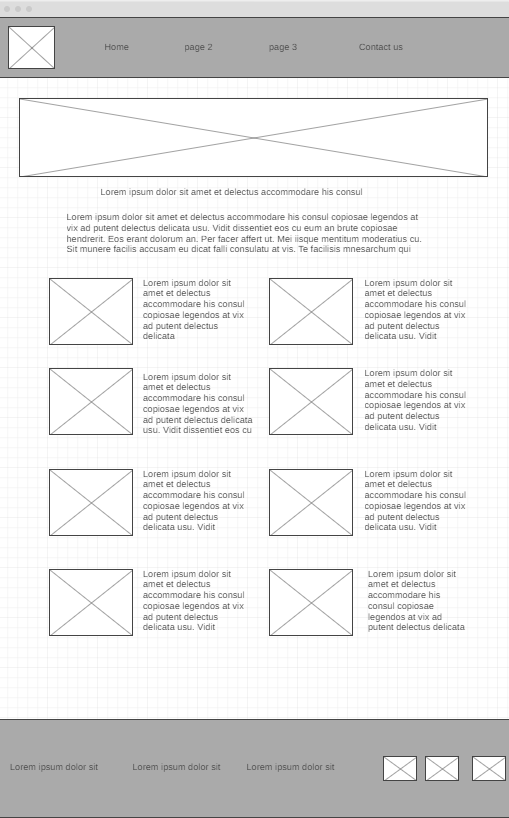
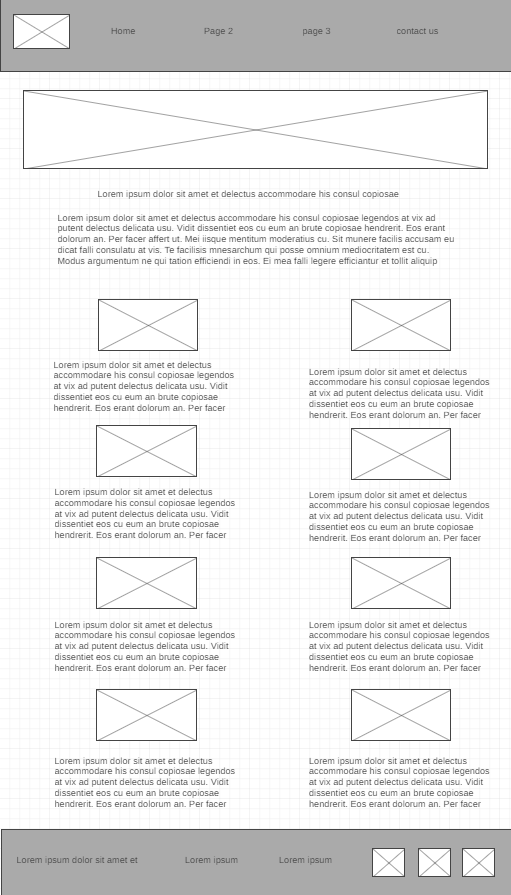
changes

diff --git a/personalsite.html b/personalsite.html
@@ -24,7 +24,7 @@
             <img src="images/mainlogo.jpg" width="100%" height="400"  alt="People enjoying white water rafting">
         
         
-            <h1 class="home-title">Global Warming and Climate Change</h1>
+            <h1>Global Warming and Climate Change</h1>
             <p> You might be thinking, what is global warning and climate change?
                 According to USGS (science for a changing world) “Global warming” refers to the rise in global temperatures due mainly to the increasing concentrations of greenhouse gases in the atmosphere. “Climate change” refers to the increasing changes in the measures of climate over a long period of time – including precipitation, temperature, and wind patterns.
                 All this changes in our planet are the consequences in our way of life. Since the Industrial Revolution, air temperatures have been increasing, however natural variables play a part as well.
@@ -32,40 +32,58 @@
                 Here are some ideas: 
                  </p>
     
-
+            <div class="energyhome">
+                
             <img src="images/saveenergyhome.jpg" alt="Save energy at home">
+            
             <p>Save energy at home.
                 Much of our electricity and heat are powered by coal, oil, and gas. Use less energy by lowering your heating and cooling, switching to LED light bulbs and energy-efficient electric appliances, washing your laundry with cold water, or hanging clothes to dry instead of using a dryer.
-                </p>
+            </p>
+            
+                </div>
+                <div class="walkbike">
             <img src="images/walkbike.jpg" alt="bike">
+        
             <p> 	Walk, bike, or take public transportation.
                 	The world’s roadways are clogged with vehicles, most of them burning diesel or gasoline. Walking or riding a bike instead of driving will reduce greenhouse gas emissions — and help your health and fitness. For longer distances, consider taking a train or bus. And carpool whenever possible.
                 </p>
+                </div>
+                <div class="vegetables">
             <img src="images/vegetables.jpg" alt="vegetables">
             <p>	Eat more vegetables.
                 	Eating more vegetables, fruits, whole grains, legumes, nuts, and seeds, can significantly lower your environmental impact. Producing plant-based foods generally results in fewer greenhouse gas emissions and requires less energy, land, and water.
                  </p>
+                 </div>
+                 <div class="travel">
             <img src="images/travel.jpg" alt="travel">
             <p>	Consider your travel.
                 	Airplanes burn large amounts of fossil fuels, producing significant greenhouse gas emissions. That means taking fewer flights is one of the fastest ways to reduce your environmental impact. When you can, meet virtually, take a train, or skip that long-distance trip altogether.
                  </p>
+                 </div>
+                 <div class="food">
             <img src="images/throwawayfood.jpg" alt="food">
             <p> 	Throw away less food.
                 	When you throw food away, you're also wasting the resources and energy that were used to grow, produce, package, and transport it. And when food rots in a landfill, it produces methane, a powerful greenhouse gas. So, use what you buy and compost any leftovers.
                 </p>
+                </div>
+                <div class="recycling">
             <img src="images/recycling.jpg" alt="recycling">
             <p>	Reduce, reuse, repair & recycle.
                 	Electronics, clothes, and other items we buy cause carbon emissions at each point in production. From the extraction of raw materials, to manufacturing, and transporting the goods to the market. To protect our climate, buy fewer things, shop second-hand, repair what you can, and recycle.
                  </p>
+                 </div>
+                 <div class="energy">
             <img src="images/energy.jpg" alt="energy">
             <p>	Change your home's source of energy.
                 	Ask your utility company if your home energy comes from oil, coal, or gas. If possible, see if you can switch to renewable sources such as wind or solar. Or install solar panels on your roof to generate energy for your home.
                  </p>
+                 </div>
+                 <div class="vehicle">
         <img src="images/electriccar.jpg" alt="Electrict vehicle">
         <p>	Switch to an electric vehicle.
             	If you plan to buy a car, consider going electric, with more and cheaper models coming on the market. Even if they still run on electricity produced from fossil fuels, electric cars help reduce air pollution and cause significantly fewer greenhouse gas emissions than gas or diesel-powered vehicles.
              </p>
-
+             </div>
     </main>
     <footer>
         <p>Protect The Planet &copy; 2022 - Juan Martín De La Cruz</p>

diff --git a/styles/site-plan.css b/styles/site-plan.css
@@ -225,3 +225,32 @@ footer .social img {
 header {
     padding-top: -10%;
 }
+.energyhome {
+  margin-right: 800px;
+  
+}
+.walkbike {
+  margin-left: 800px;
+  margin-top: -365px;
+}
+.vegetables {
+  margin-right: 800px;
+}
+.travel {
+  margin-left: 800px;
+  margin-top: -365px;
+}
+.food {
+  margin-right: 800px;
+}
+.recycling {
+  margin-left: 800px;
+  margin-top: -365px;
+}
+.energy {
+  margin-right: 800px;
+}
+.vehicle {
+  margin-left: 800px;
+  margin-top: -365px;
+}
